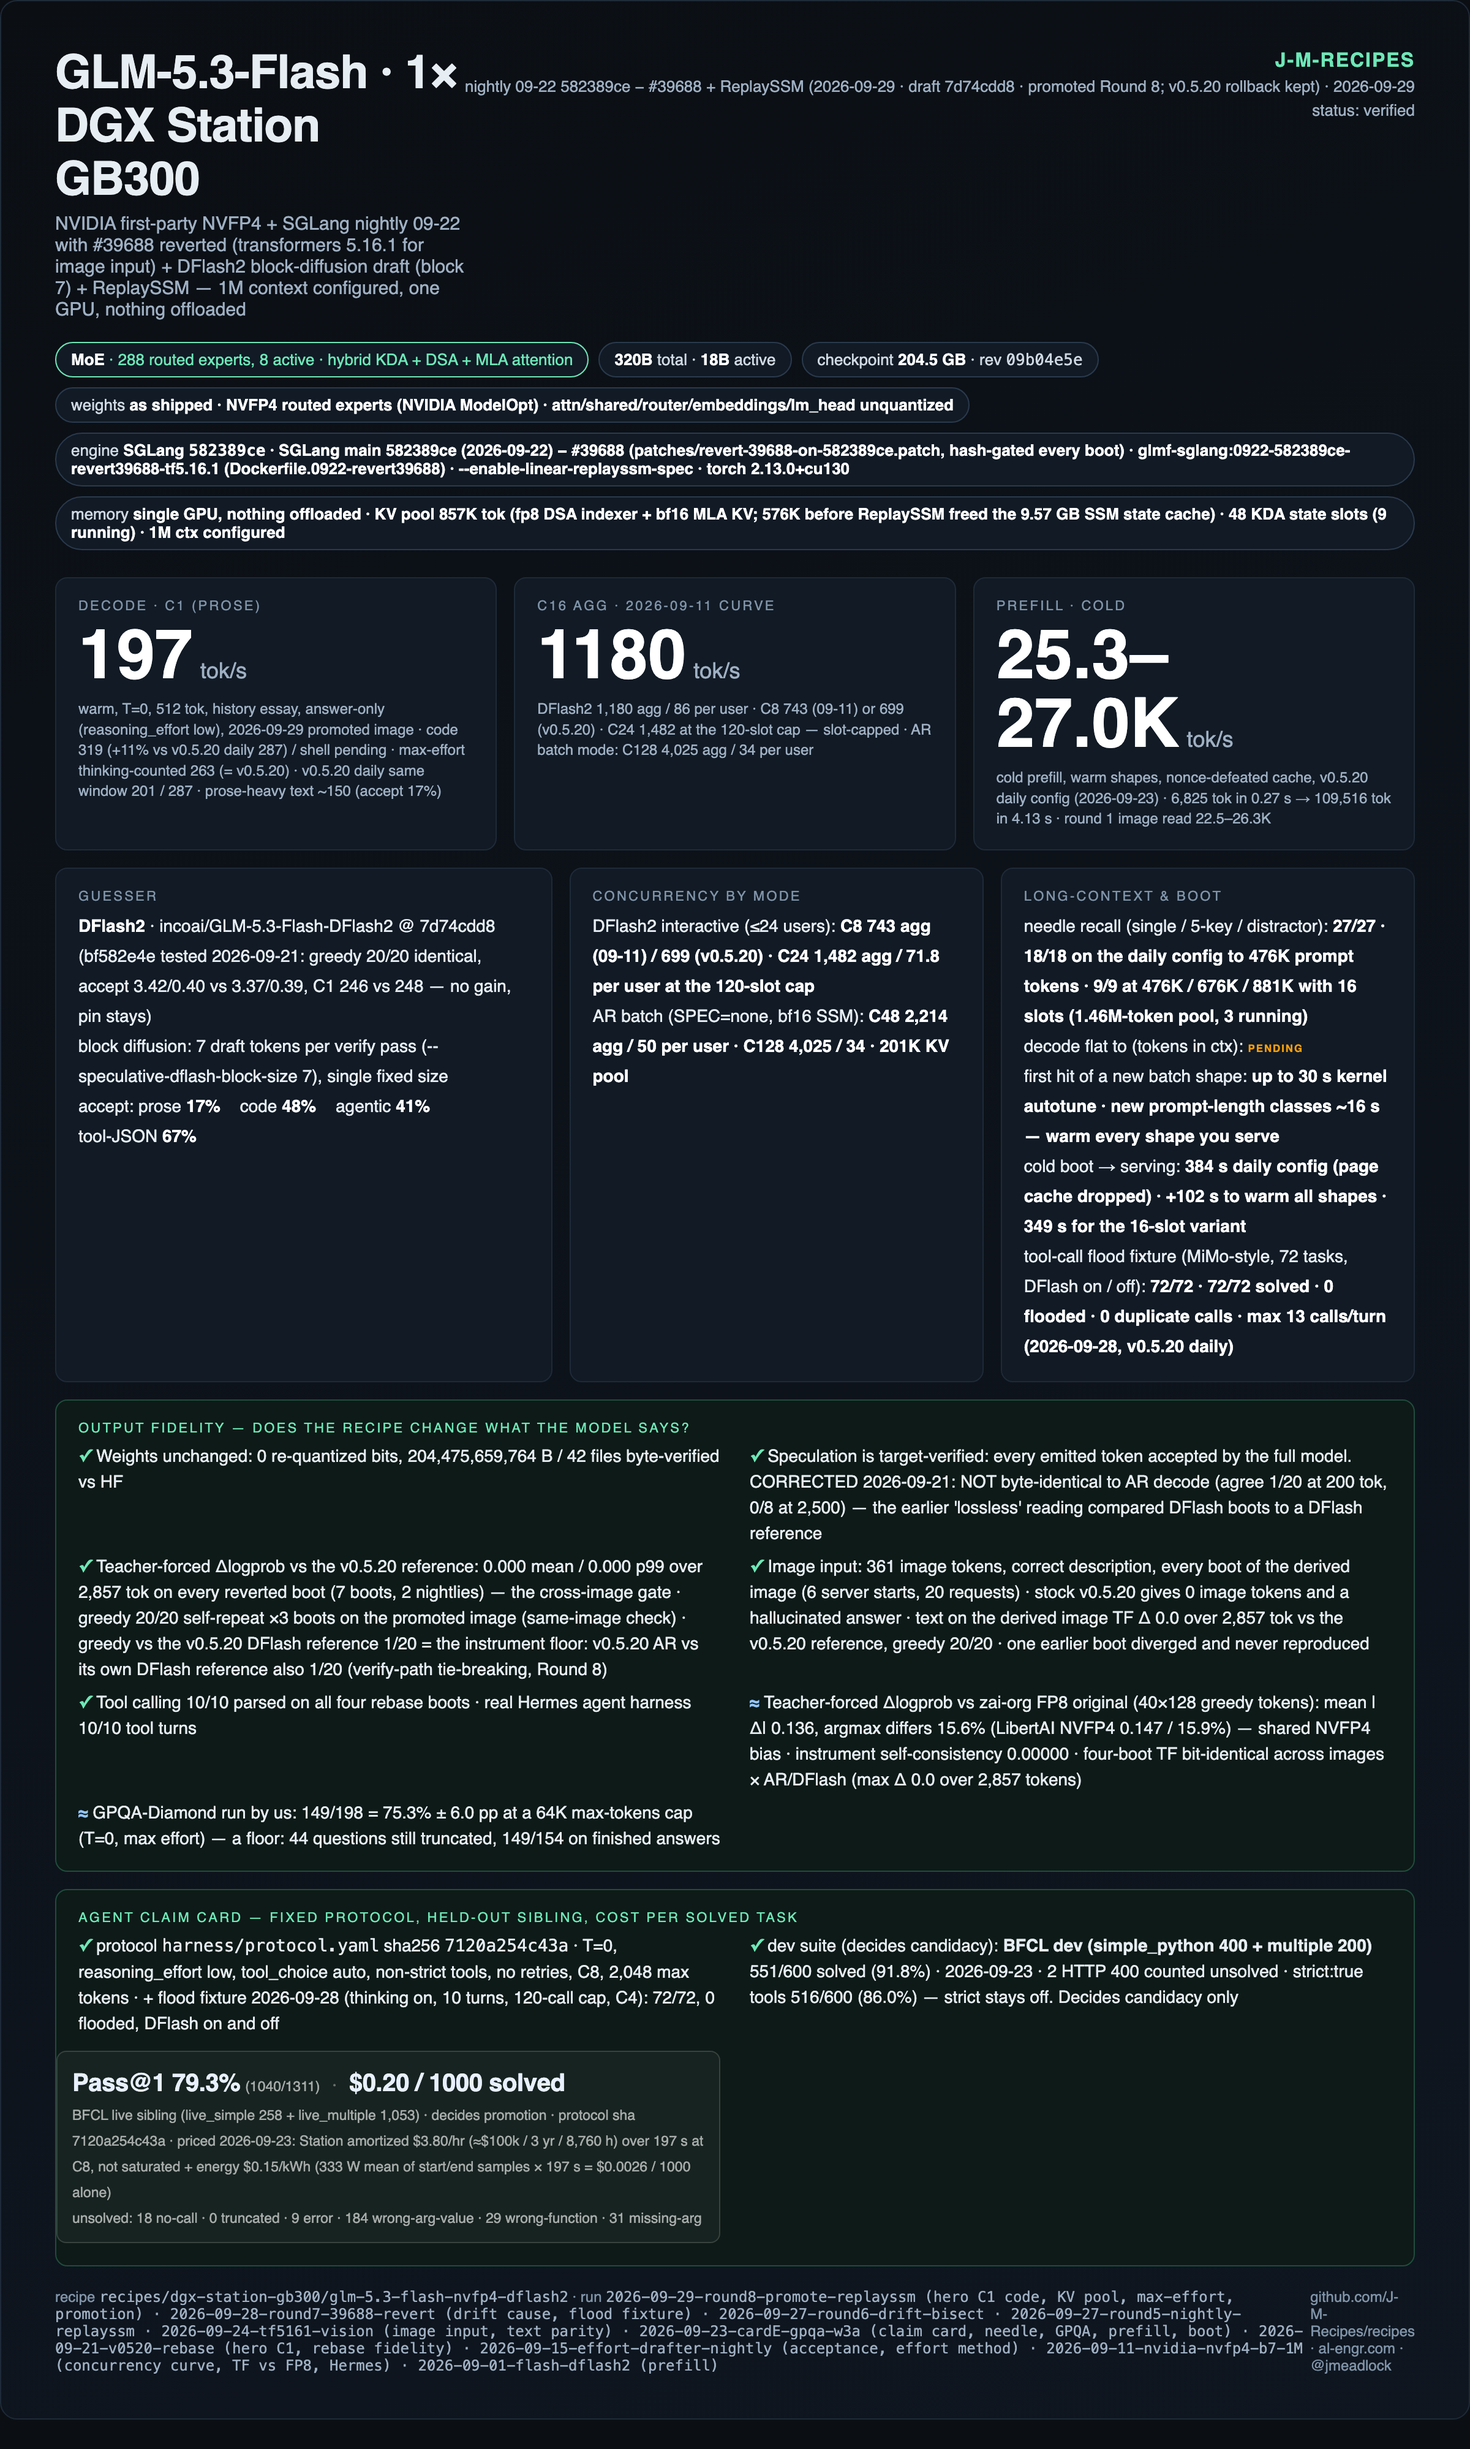
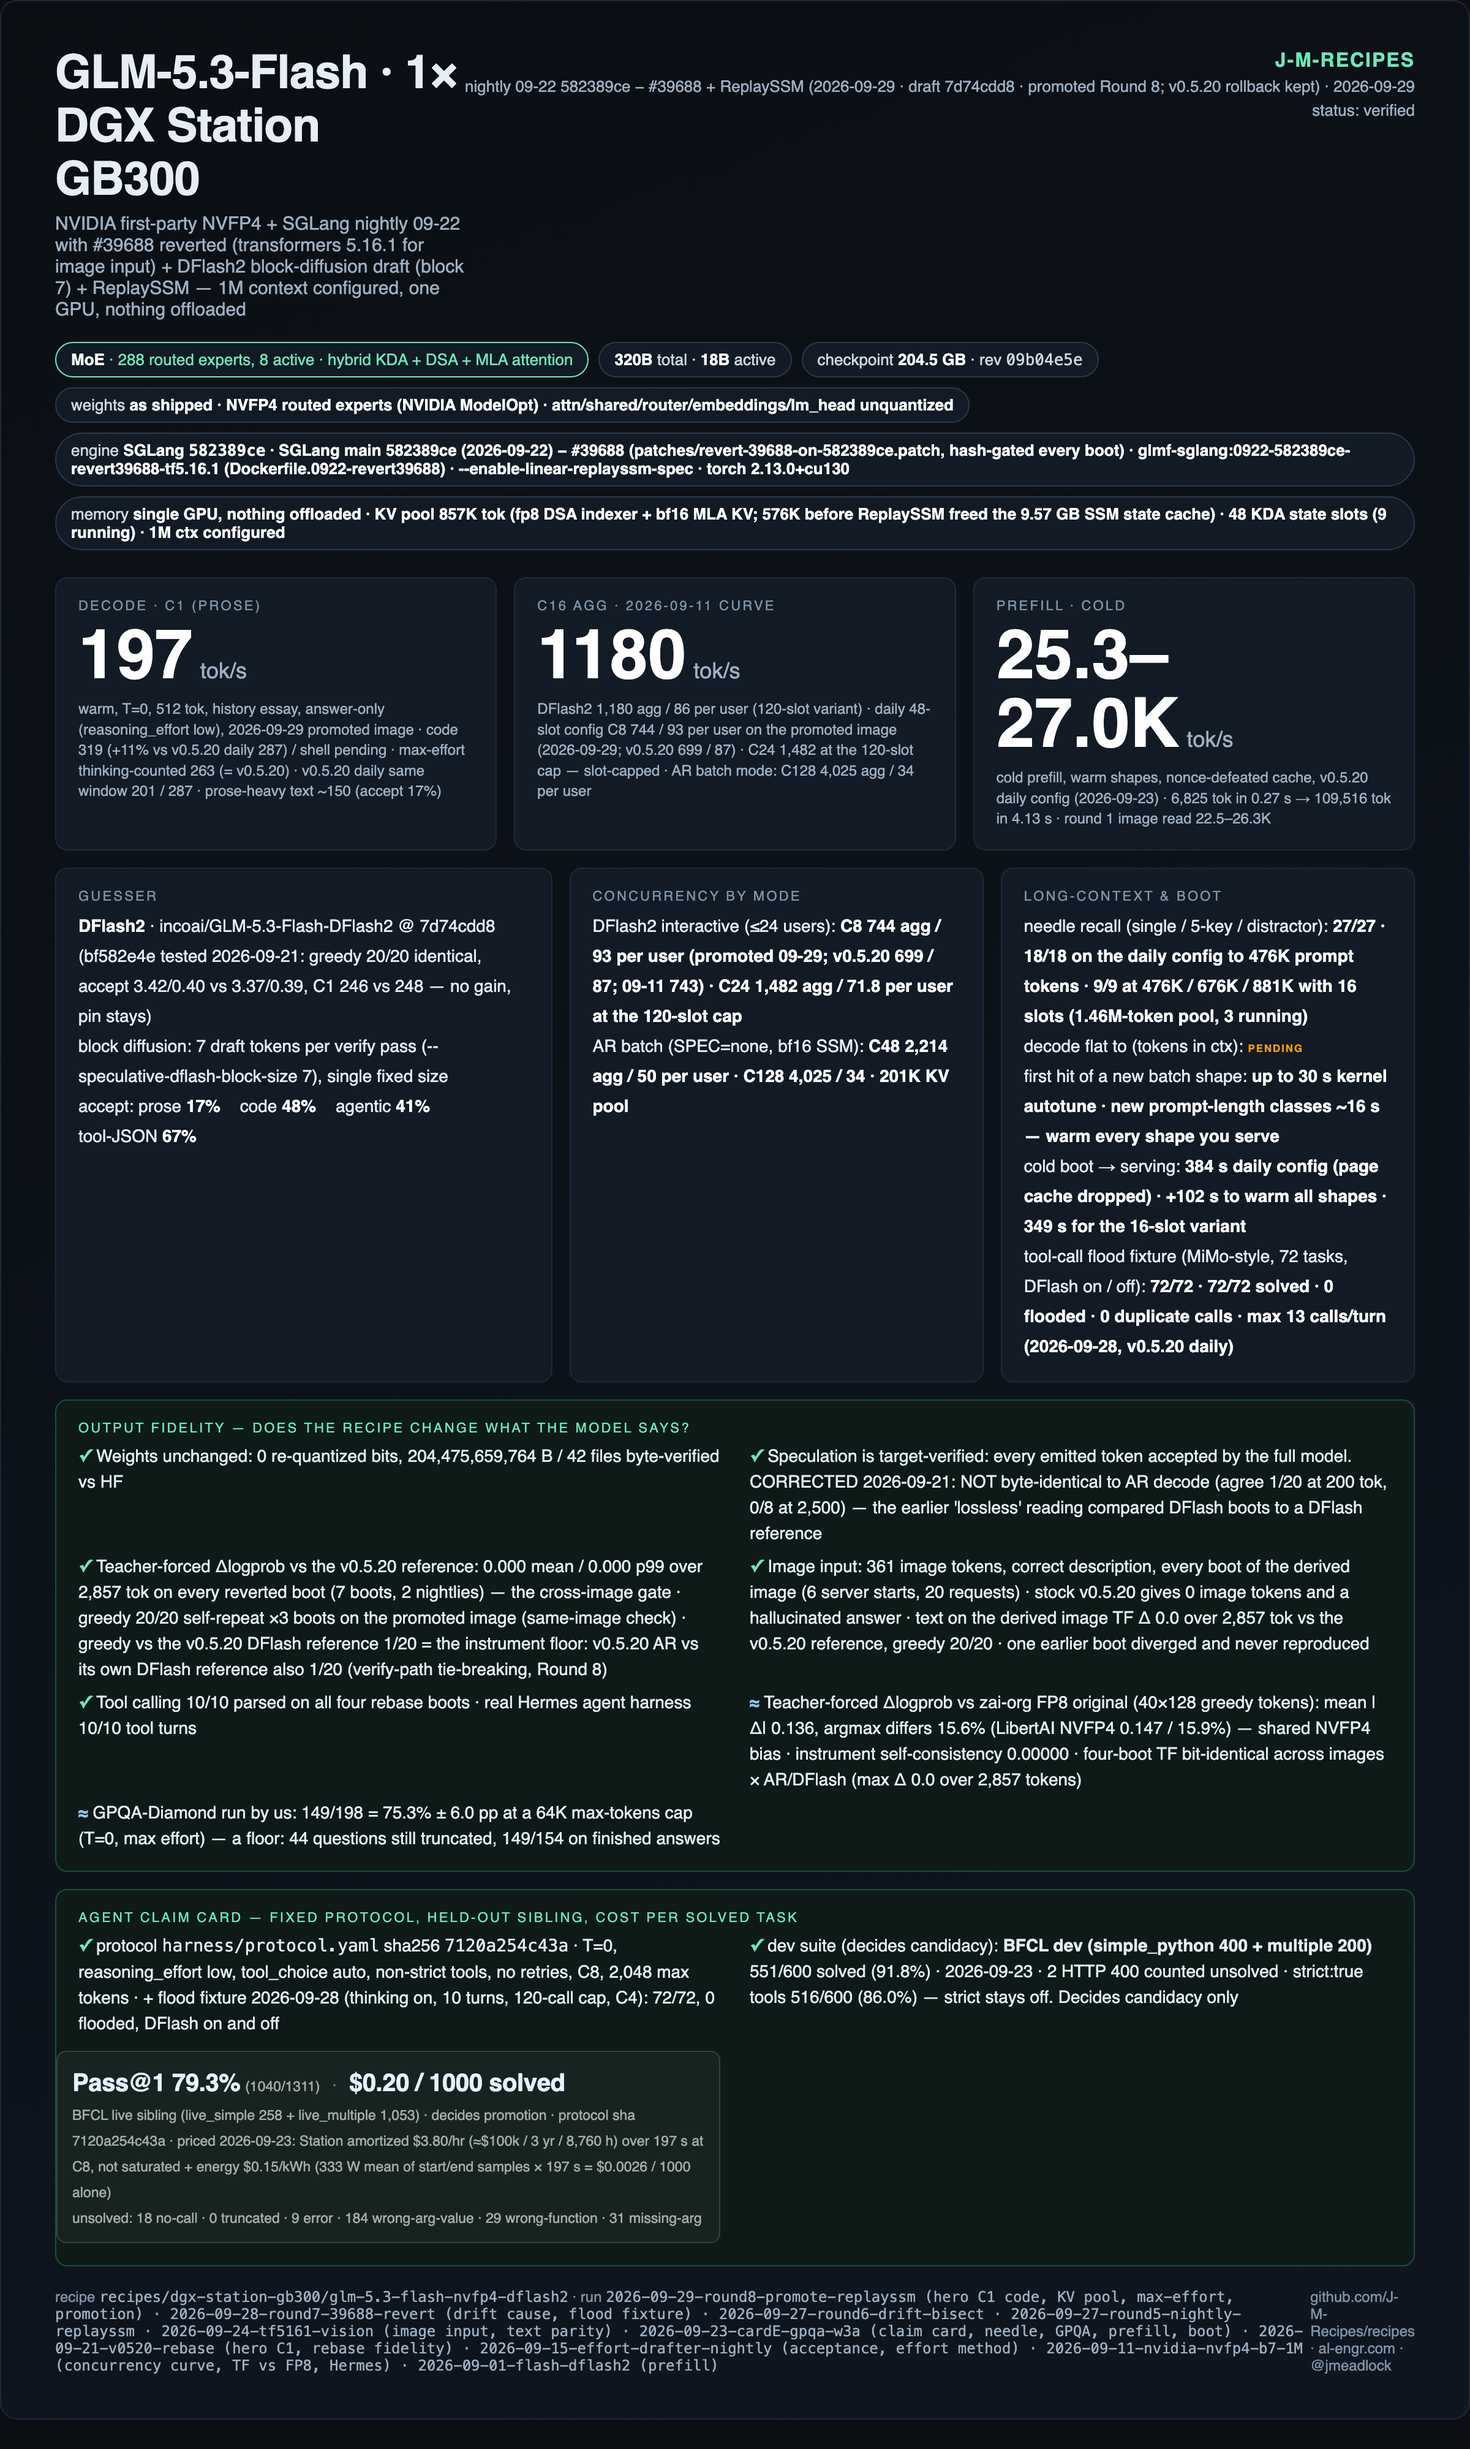
GLM-5.3-Flash Round 8: C8 on the promoted image 744 agg / 93 per user (v0.5.20 699 / 87, same instrument, +6%); C16 on the 48-slot daily is a queue, not a batch (#65)

Changed region(s): [[0.4062, 0.3723, 0.6562, 0.4653], [0.375, 0.2792, 0.625, 0.3102]]

diff --git a/recipes/dgx-station-gb300/glm-5.3-flash-nvfp4-dflash2/card.html b/recipes/dgx-station-gb300/glm-5.3-flash-nvfp4-dflash2/card.html
@@ -56,12 +56,12 @@
   </div>
   <div class="grid">
 <div class="box"><div class="lbl">Decode · C1 (prose)</div><div class="hero">197<small>tok/s</small></div><div class="note">warm, T=0, 512 tok, history essay, answer-only (reasoning_effort low), 2026-09-29 promoted image · code 319 (+11% vs v0.5.20 daily 287) / shell pending · max-effort thinking-counted 263 (= v0.5.20) · v0.5.20 daily same window 201 / 287 · prose-heavy text ~150 (accept 17%)</div></div>
-<div class="box"><div class="lbl">C16 agg · 2026-09-11 curve</div><div class="hero">1180<small>tok/s</small></div><div class="note">DFlash2 1,180 agg / 86 per user · C8 743 (09-11) or 699 (v0.5.20) · C24 1,482 at the 120-slot cap — slot-capped · AR batch mode: C128 4,025 agg / 34 per user</div></div>
+<div class="box"><div class="lbl">C16 agg · 2026-09-11 curve</div><div class="hero">1180<small>tok/s</small></div><div class="note">DFlash2 1,180 agg / 86 per user (120-slot variant) · daily 48-slot config C8 744 / 93 per user on the promoted image (2026-09-29; v0.5.20 699 / 87) · C24 1,482 at the 120-slot cap — slot-capped · AR batch mode: C128 4,025 agg / 34 per user</div></div>
 <div class="box"><div class="lbl">Prefill · cold</div><div class="hero">25.3–27.0K<small>tok/s</small></div><div class="note">cold prefill, warm shapes, nonce-defeated cache, v0.5.20 daily config (2026-09-23) · 6,825 tok in 0.27 s → 109,516 tok in 4.13 s · round 1 image read 22.5–26.3K</div></div>
   </div>
   <div class="row2">
 <div class="box"><div class="lbl">Guesser</div><div class="kv"><b>DFlash2</b> · incoai/GLM-5.3-Flash-DFlash2 @ 7d74cdd8 (bf582e4e tested 2026-09-21: greedy 20/20 identical, accept 3.42/0.40 vs 3.37/0.39, C1 246 vs 248 — no gain, pin stays)<br>block diffusion: 7 draft tokens per verify pass (--speculative-dflash-block-size 7), single fixed size<br><span class="acc">accept: <span>prose <b>17%</b></span> <span>code <b>48%</b></span> <span>agentic <b>41%</b></span> <span>tool-JSON <b>67%</b></span></span></div></div>
-<div class="box"><div class="lbl">Concurrency by mode</div><div class="kv">DFlash2 interactive (≤24 users): <b>C8 743 agg (09-11) / 699 (v0.5.20) · C24 1,482 agg / 71.8 per user at the 120-slot cap</b><br>AR batch (SPEC=none, bf16 SSM): <b>C48 2,214 agg / 50 per user · C128 4,025 / 34 · 201K KV pool</b></div></div>
+<div class="box"><div class="lbl">Concurrency by mode</div><div class="kv">DFlash2 interactive (≤24 users): <b>C8 744 agg / 93 per user (promoted 09-29; v0.5.20 699 / 87; 09-11 743) · C24 1,482 agg / 71.8 per user at the 120-slot cap</b><br>AR batch (SPEC=none, bf16 SSM): <b>C48 2,214 agg / 50 per user · C128 4,025 / 34 · 201K KV pool</b></div></div>
 <div class="box"><div class="lbl">Long-context &amp; boot</div><div class="kv">needle recall (single / 5-key / distractor): <b>27/27 · 18/18 on the daily config to 476K prompt tokens · 9/9 at 476K / 676K / 881K with 16 slots (1.46M-token pool, 3 running)</b><br>decode flat to (tokens in ctx): <b><span class="pend-inline">PENDING</span></b><br>first hit of a new batch shape: <b>up to 30 s kernel autotune · new prompt-length classes ~16 s — warm every shape you serve</b><br>cold boot → serving: <b>384 s daily config (page cache dropped) · +102 s to warm all shapes · 349 s for the 16-slot variant</b><br>tool-call flood fixture (MiMo-style, 72 tasks, DFlash on / off): <b>72/72 · 72/72 solved · 0 flooded · 0 duplicate calls · max 13 calls/turn (2026-09-28, v0.5.20 daily)</b></div></div>
   </div>
   <div class="fid"><div class="lbl">Output fidelity — does the recipe change what the model says?</div>

diff --git a/recipes/dgx-station-gb300/glm-5.3-flash-nvfp4-dflash2/README.md b/recipes/dgx-station-gb300/glm-5.3-flash-nvfp4-dflash2/README.md
@@ -1,6 +1,6 @@
 # GLM-5.3-Flash NVFP4 + DFlash2 on one DGX Station GB300
 
-**Status: verified** (**daily image moved September 29, 2026** to SGLang nightly 09-22 `582389ce` with #39688 reverted + ReplaySSM — KV pool 857K, code C1 319; v0.5.20 kept as rollback; image input fixed September 24, 2026 — derived image with transformers 5.16.1, reported by [Paul Torruella](https://x.com/PaulTorrue36658); claim card, long context and GPQA added September 23, 2026; rebased to **SGLang v0.5.20** September 21, 2026; draft `bf582e4e` tested the same afternoon — greedy 20/20 identical, acceptance and speed within noise, pin stays on `7d74cdd8`; round 3, September 16, 2026) · **~197 tok/s** history / **~319 code** single-stream answer-only (`reasoning_effort: low`) / **~263** with max-effort thinking counted · **~730 agg at C8** (DFlash2, v0.5.20 image; re-measure on the promoted image pending) · **2,214 agg / 50 per user at C48** and **4,025 agg / 34 per user at C128** (autoregressive) · 1M context, **needle recall 27/27 up to 881K prompt tokens** · **BFCL held-out Pass@1 79.3% (1,040/1,311)** · **GPQA-Diamond 75.3% at a 64K cap** (lower bound) · quality gated by teacher-forced divergence vs the FP8 original
+**Status: verified** (**daily image moved September 29, 2026** to SGLang nightly 09-22 `582389ce` with #39688 reverted + ReplaySSM — KV pool 857K, code C1 319; v0.5.20 kept as rollback; image input fixed September 24, 2026 — derived image with transformers 5.16.1, reported by [Paul Torruella](https://x.com/PaulTorrue36658); claim card, long context and GPQA added September 23, 2026; rebased to **SGLang v0.5.20** September 21, 2026; draft `bf582e4e` tested the same afternoon — greedy 20/20 identical, acceptance and speed within noise, pin stays on `7d74cdd8`; round 3, September 16, 2026) · **~197 tok/s** history / **~319 code** single-stream answer-only (`reasoning_effort: low`) / **~263** with max-effort thinking counted · **~744 agg at C8** (DFlash2, promoted image; v0.5.20 was ~700) · **2,214 agg / 50 per user at C48** and **4,025 agg / 34 per user at C128** (autoregressive) · 1M context, **needle recall 27/27 up to 881K prompt tokens** · **BFCL held-out Pass@1 79.3% (1,040/1,311)** · **GPQA-Diamond 75.3% at a 64K cap** (lower bound) · quality gated by teacher-forced divergence vs the FP8 original
 
 > **Image input fix (September 24, 2026). Reported by [Paul Torruella](https://x.com/PaulTorrue36658).** The 9/21 rebase to `lmsysorg/sglang:v0.5.20-cu130` silently broke image input. That image ships **transformers 5.12.1**, which predates GLM-5.3-Flash (first released in transformers 5.16.1). SGLang loads a bare tokenizer with no image processor, drops the image, returns HTTP 200 with **0 image tokens**, and the model describes an image it never saw (our test image of a red square, a blue circle and "HELLO" came back as *"the Coca-Cola logo"*). The old frozen image had 5.16.1, so this was a regression our text-only gates could not see. Paul traced it and built the fix, a two-package derived image: [`Dockerfile.tf5.16.1`](Dockerfile.tf5.16.1). Verified here on a fresh boot of the pinned rebuild: **361 image tokens**, correct description, and text unchanged (teacher-forced Δ **0.0** over 2,857 tokens vs the v0.5.20 reference, greedy 20/20, tools 10/10, C1 200 / C8 699). [`scripts/vision_gate.py`](scripts/vision_gate.py) now runs on every boot. One earlier boot of the same image served slightly different numerics and never reproduced in six more boots; see the bundle. Bundle: [`results/2026-09-24-tf5161-vision/`](results/2026-09-24-tf5161-vision/README.md).
 

diff --git a/recipes/dgx-station-gb300/glm-5.3-flash-nvfp4-dflash2/results/2026-09-29-round8-promote-replayssm/README.md b/recipes/dgx-station-gb300/glm-5.3-flash-nvfp4-dflash2/results/2026-09-29-round8-promote-replayssm/README.md
@@ -49,6 +49,20 @@ Daily lane `:30001` is now `glmf-DAILY-rssm-20260929`:
 
 Containers `glmf-K3-{D,F-ar,E,E-ctl}` stopped and kept. `glmf-DAILY-rssm-20260929` left running.
 
+## Concurrency on the promoted image (knee curve, same instrument as every prior round)
+
+Live daily lane, warm, 256-token completions, thinking off, 3 reps per concurrency ([`receipts/promote/knee-daily-rssm.txt`](receipts/promote/knee-daily-rssm.txt)). v0.5.20 daily reference rows are the 2026-09-24 `tf5` boot (`results/2026-09-24-tf5161-vision/raw/cardH-2026-09-24/tf5/knee-c8.txt`).
+
+| conc | promoted (ReplaySSM) agg / per-stream | reps · spread | v0.5.20 daily agg / per-stream |
+|--:|--:|--|--:|
+| 1 | 184 / 184 | 180/186/186 · 3 % | ~190 (knee instrument; `c1_methods` history reads 195–201 on both) |
+| 2 | 312 / 156 | 303/327/307 · 8 % | — |
+| 4 | 485 / 121 | 478/489/489 · 2 % | — |
+| **8** | **744 / 93.0** | 760/743/729 · 4 % | 699 / 87.4 (6 %) |
+| 16 | 554 / 34.6 | **226**/703/732 · 91 % | (slot-capped at 9 running; C16 is a queue, not a batch) |
+
+C8 **+6 %** aggregate on the promoted image (744 vs 699), consistent with Round 5's +7 % for ReplaySSM on the drifted nightly. C16 is not a measurement on either image: the daily config runs 48 KDA slots = 9 running requests, so 16 streams queue, and the first rep here (226) is the queue draining cold — the two warm reps (703/732) are the C8 number again. The 1,180 C16 hero on the card is the 2026-09-11 120-slot variant and is unchanged by this round.
+
 ## Reproducibility of the promoted image
 
 The image serving on the Station was built as a `COPY` overlay of the reverted files (Round 7 method). [`Dockerfile.0922-revert39688`](../../Dockerfile.0922-revert39688) rebuilds it from the pinned base digest with `git apply` of [`patches/revert-39688-on-582389ce.patch`](../../patches/revert-39688-on-582389ce.patch). Checked 2026-09-29 on the Station: aggregate sha256 over every `srt/**/*.py` and `kernels/**/*.py` in `/sgl-workspace/sglang/python/sglang` is **`6266d9f1…` in both images**; `prefill_track_metadata.py` absent in both; `pip freeze` transformers 5.16.1 / tokenizers 0.23.2 / torch 2.13.0+cu130 in both. Receipt: [`receipts/dockerfile-reproduce.txt`](receipts/dockerfile-reproduce.txt).
